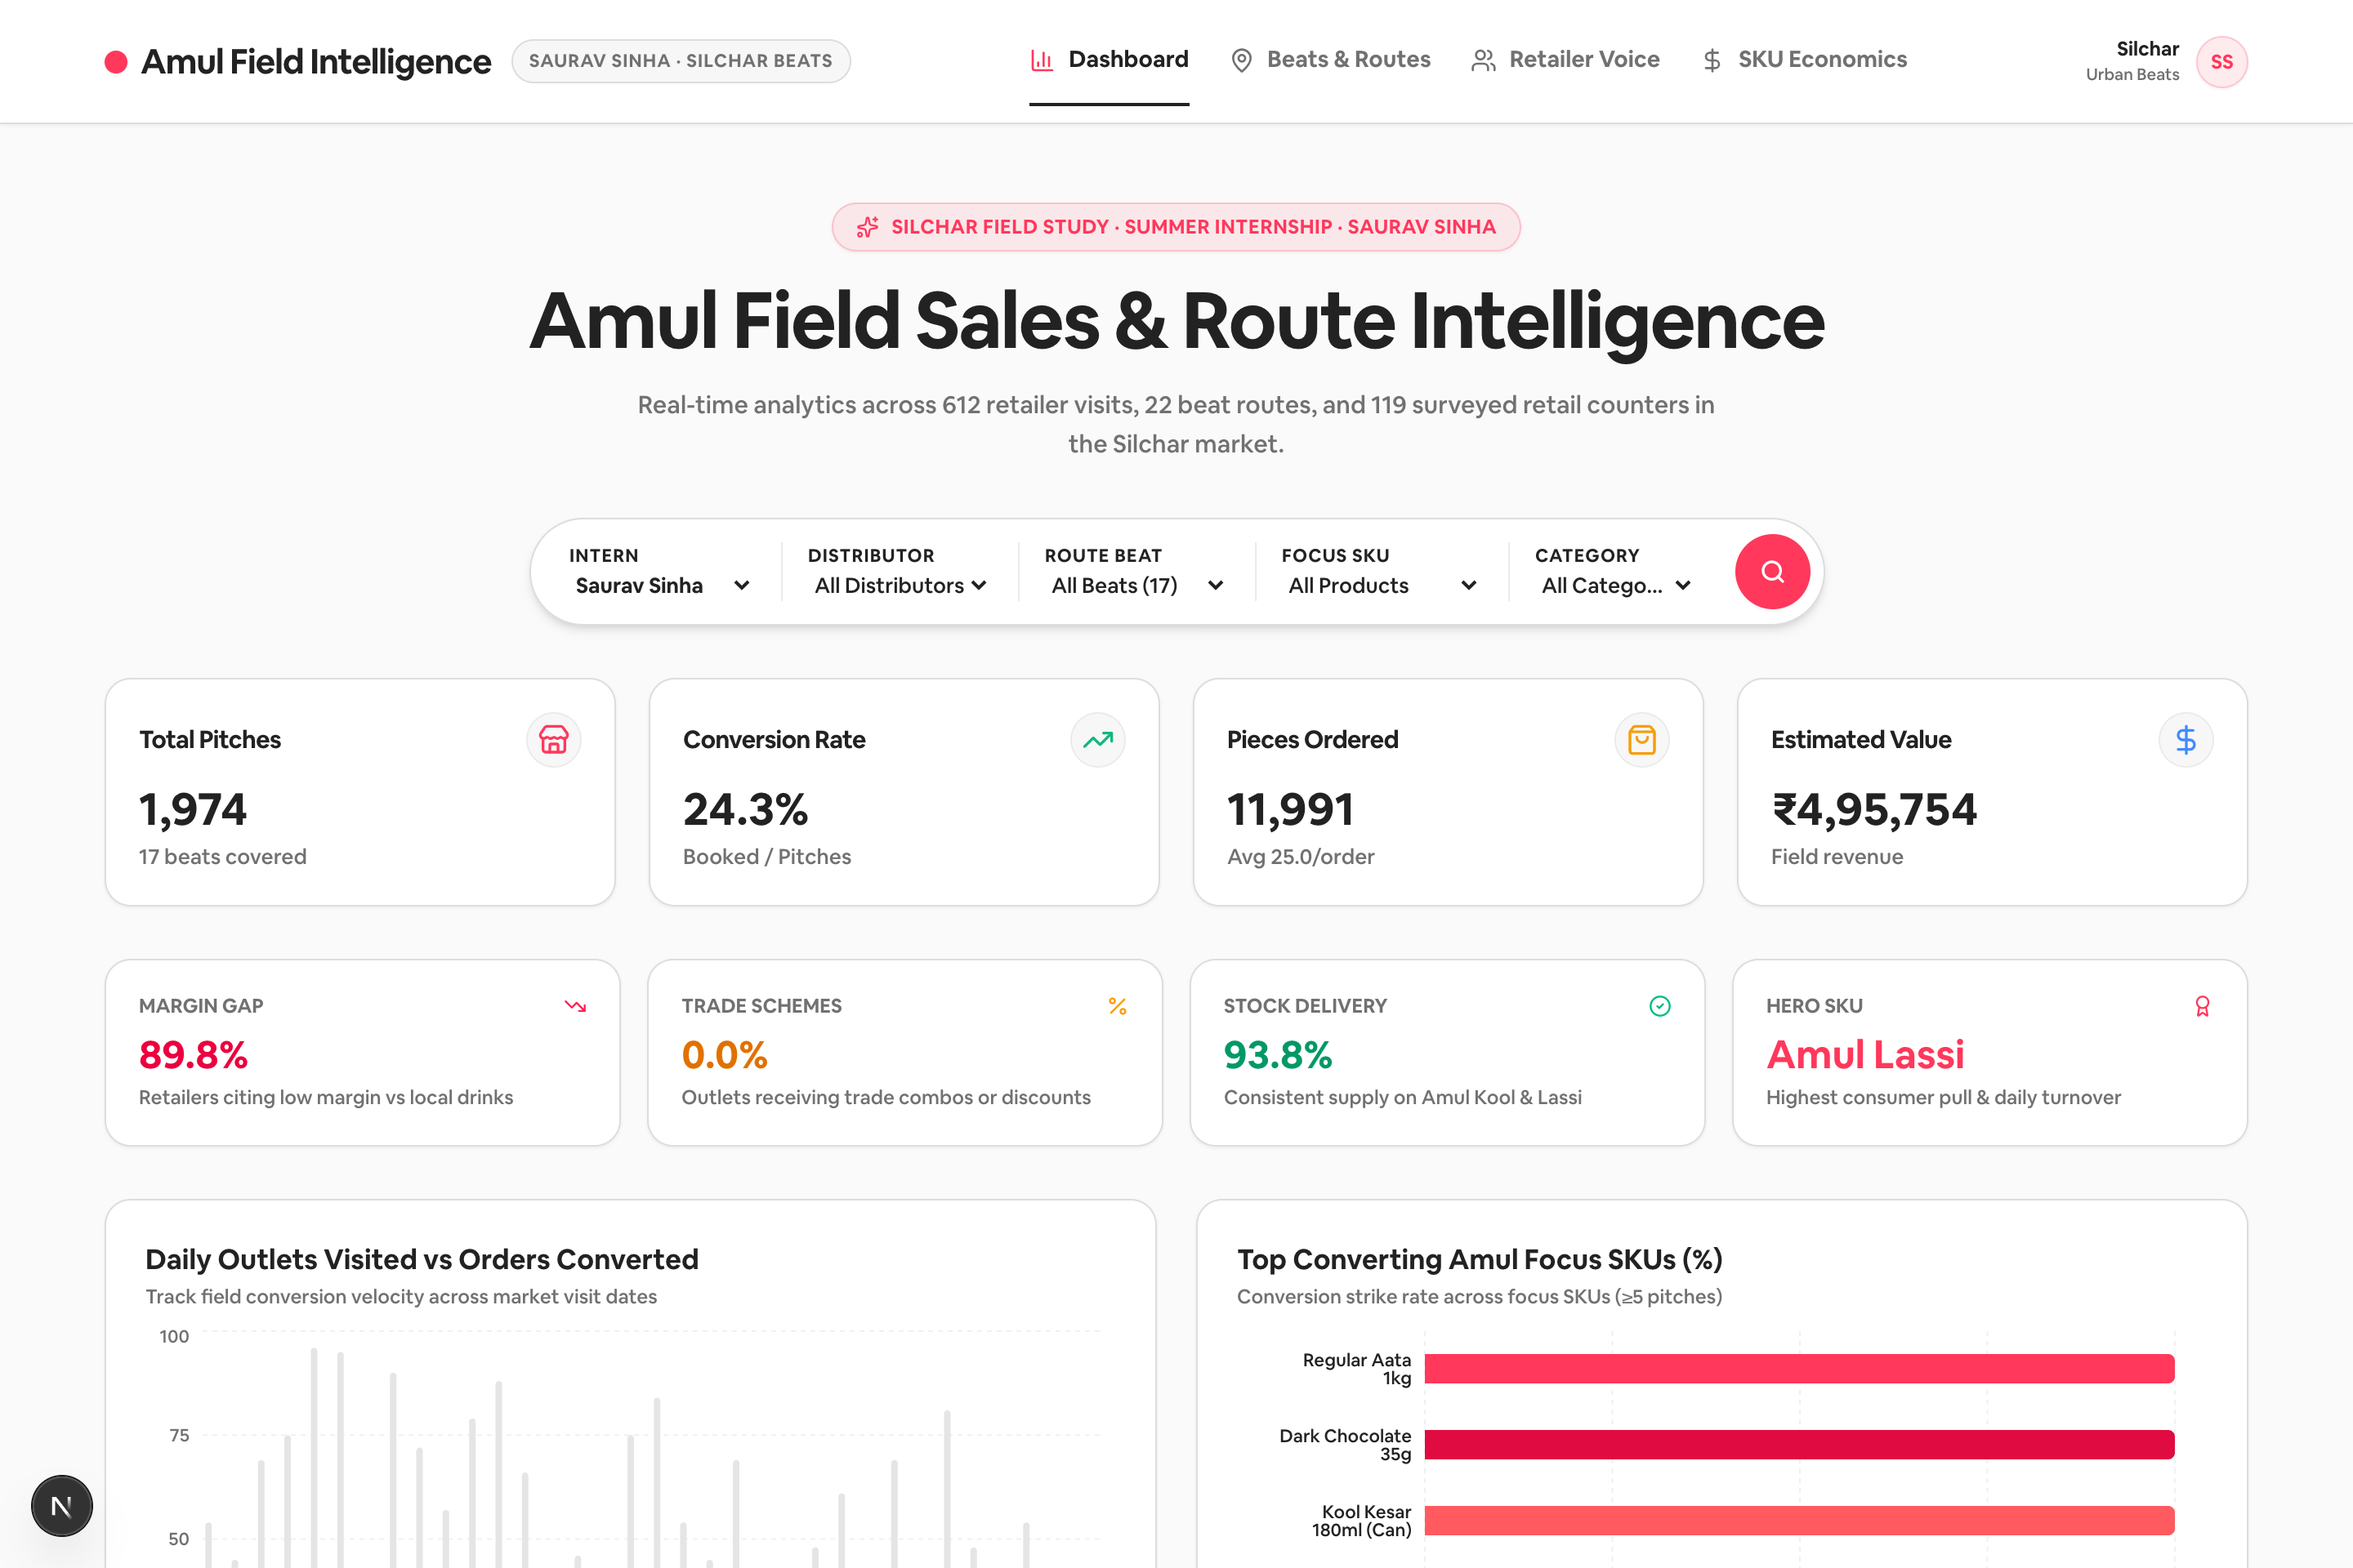
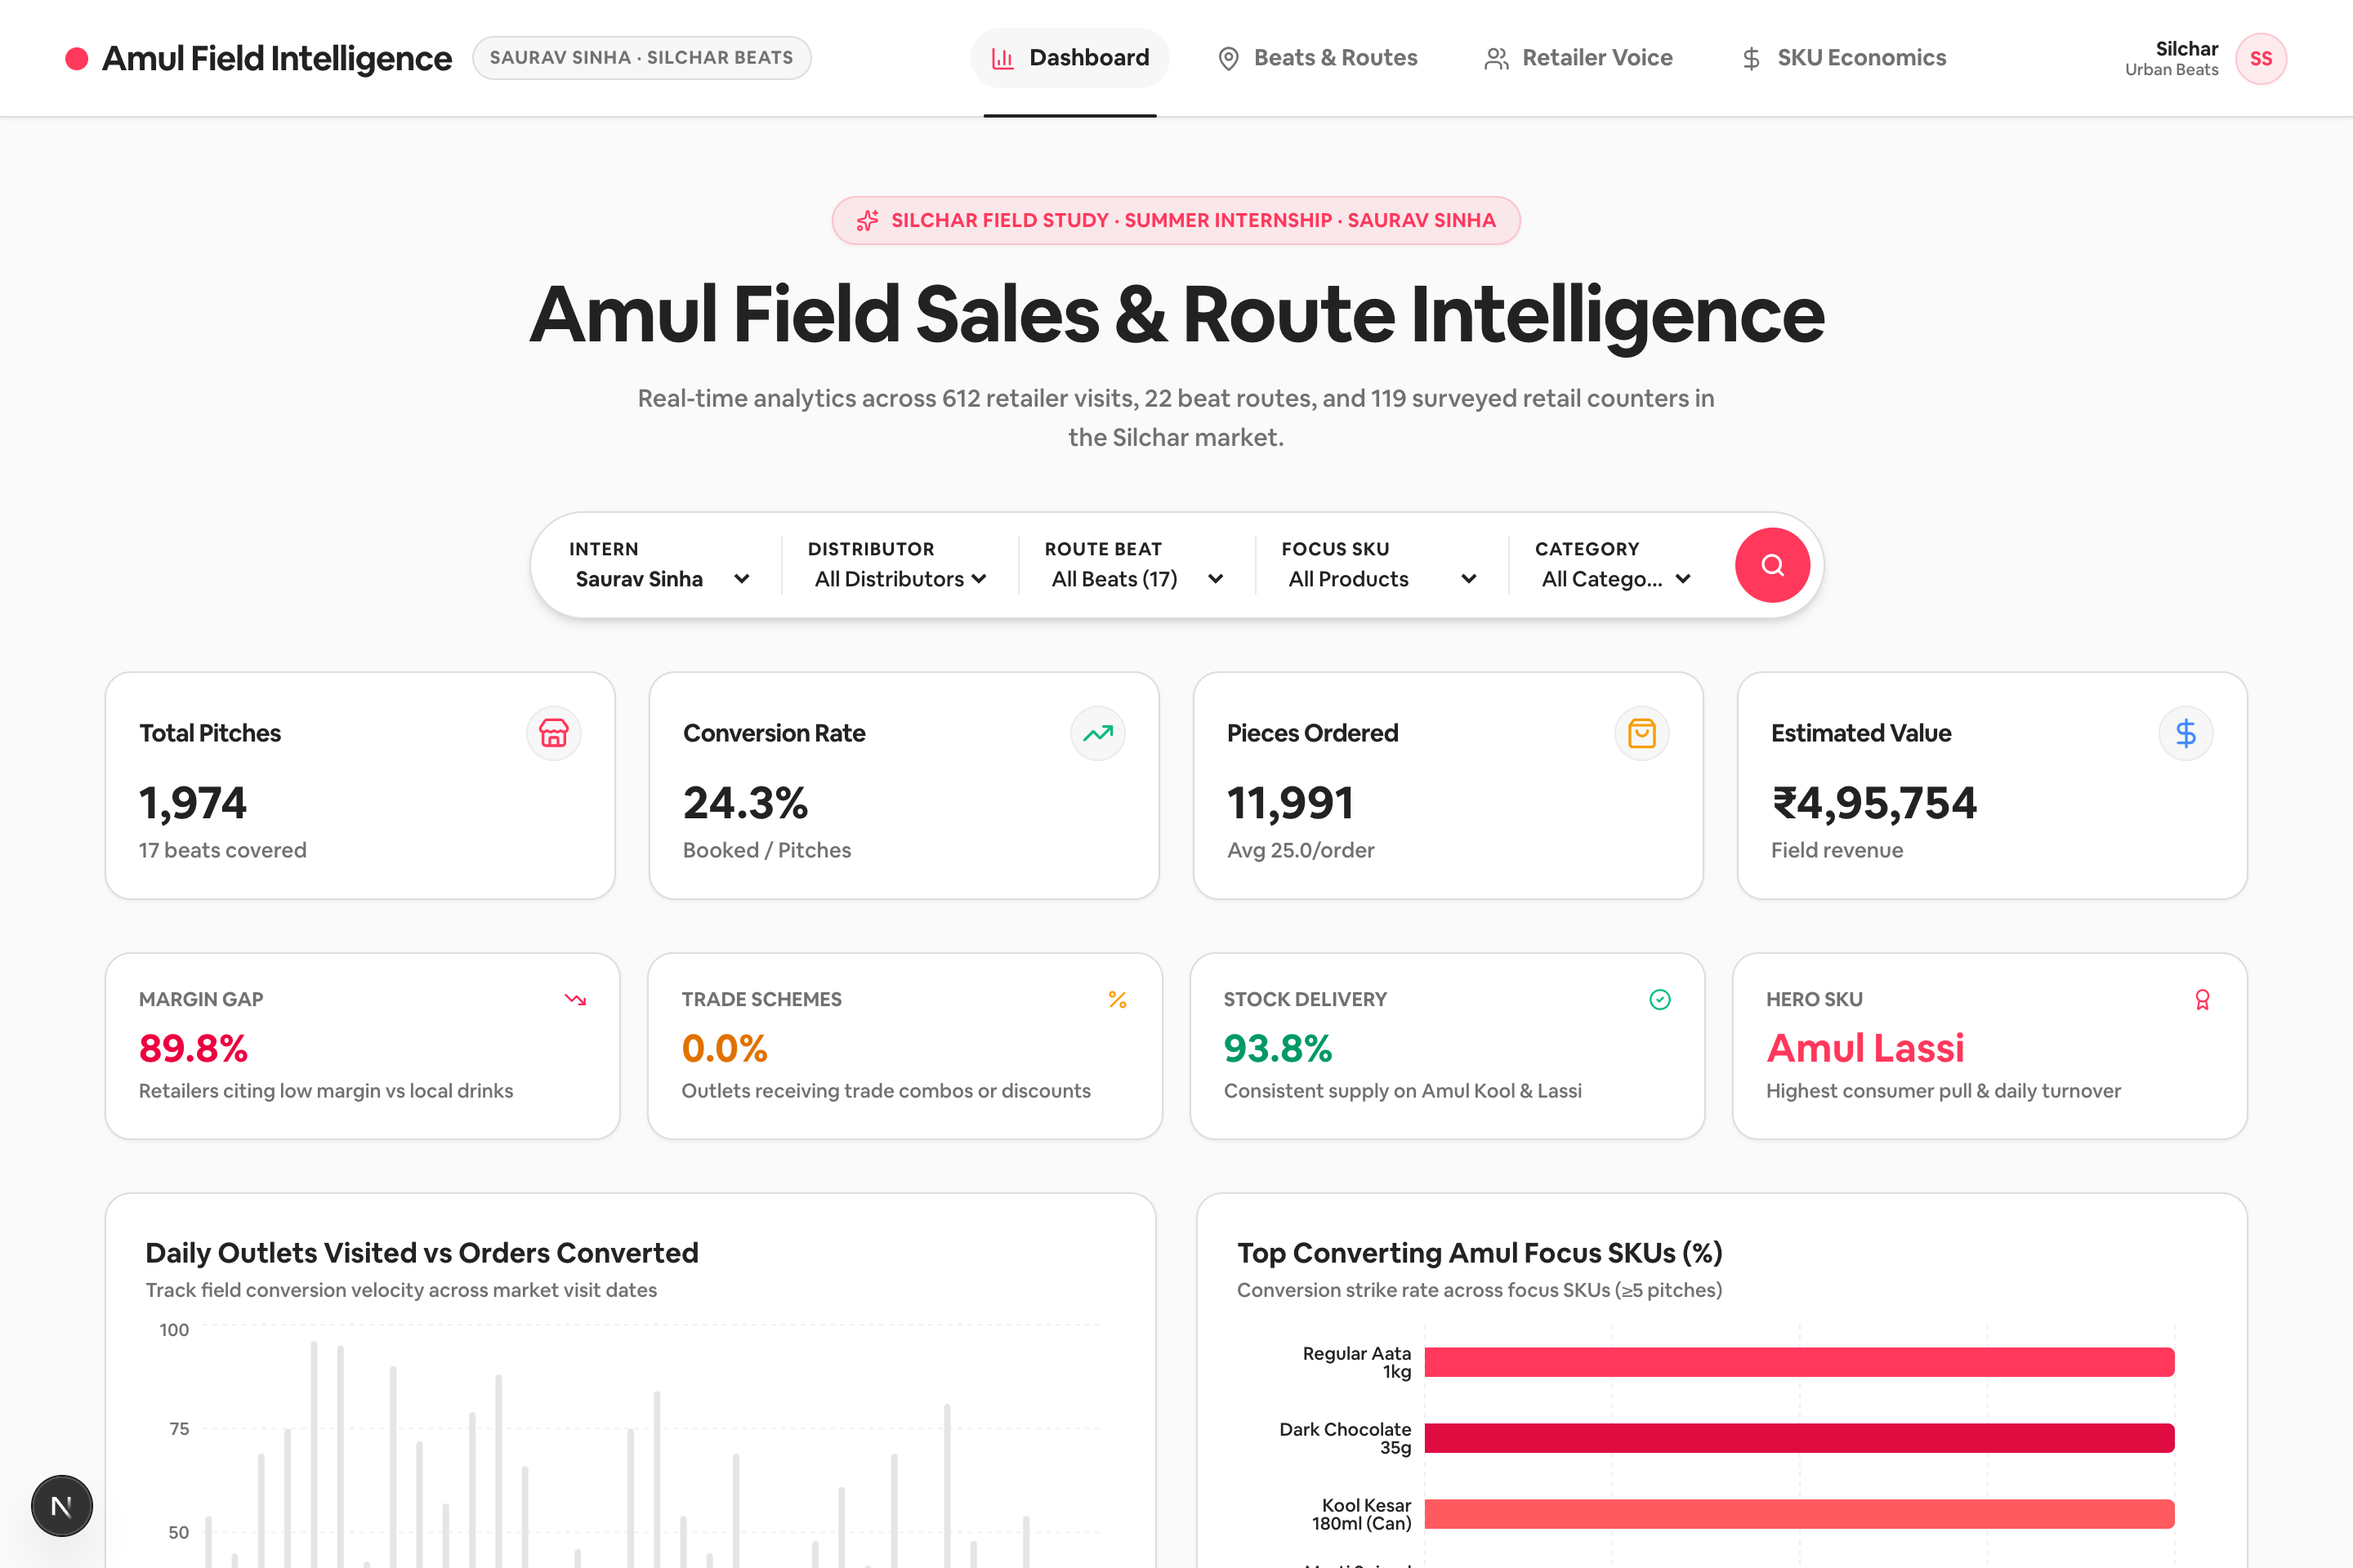
Fix header alignments: apply strict whitespace-nowrap, shrink-0, and responsive tab label switching

diff --git a/next-dashboard/src/components/TopNav.tsx b/next-dashboard/src/components/TopNav.tsx
@@ -11,28 +11,30 @@ export default function TopNav({ currentTab, onTabChange }: TopNavProps) {
   const navTabs = [
     { id: 'Dashboard', label: 'Dashboard', shortLabel: 'Overview', icon: BarChart3 },
     { id: 'Beats', label: 'Beats & Routes', shortLabel: 'Beats', icon: MapPin },
-    { id: 'Surveys', label: 'Retailer Voice', shortLabel: 'Surveys (119)', icon: Users },
-    { id: 'Economics', label: 'SKU Economics', shortLabel: 'SKU & PTR', icon: DollarSign },
+    { id: 'Surveys', label: 'Retailer Voice', shortLabel: 'Surveys', icon: Users },
+    { id: 'Economics', label: 'SKU Economics', shortLabel: 'Economics', icon: DollarSign },
   ];
 
   return (
     <>
-      {/* Desktop & Mobile Header */}
-      <header className="h-[64px] sm:h-[76px] bg-white/95 border-b border-[#dddddd] flex items-center justify-between px-4 sm:px-8 md:px-16 sticky top-0 z-50 shadow-xs backdrop-blur-md">
-        <div className="flex items-center space-x-2.5 sm:space-x-3">
-          <div className="flex items-center gap-2">
-            <span className="w-3 h-3 sm:w-3.5 sm:h-3.5 rounded-full bg-[#ff385c] inline-block shadow-xs" />
-            <span className="text-[#222222] text-[17px] sm:text-[21px] font-bold tracking-tight">
+      {/* Main Header */}
+      <header className="h-[64px] sm:h-[72px] bg-white/95 border-b border-[#dddddd] flex items-center justify-between px-4 sm:px-6 lg:px-10 sticky top-0 z-50 shadow-xs backdrop-blur-md select-none">
+        
+        {/* Brand Logo & Name */}
+        <div className="flex items-center space-x-2.5 sm:space-x-3 shrink-0">
+          <div className="flex items-center gap-2 shrink-0">
+            <span className="w-3 h-3 sm:w-3.5 sm:h-3.5 rounded-full bg-[#ff385c] shrink-0 inline-block shadow-xs" />
+            <span className="text-[#222222] text-[16px] sm:text-[19px] xl:text-[21px] font-bold tracking-tight whitespace-nowrap">
               Amul Field Intelligence
             </span>
           </div>
-          <div className="hidden lg:flex items-center text-[11px] font-bold uppercase tracking-wider text-[#717171] bg-[#f7f7f7] px-2.5 py-1 rounded-full border border-[#dddddd]">
+          <div className="hidden xl:inline-flex items-center text-[11px] font-bold uppercase tracking-wider text-[#717171] bg-[#f7f7f7] px-2.5 py-1 rounded-full border border-[#dddddd] whitespace-nowrap shrink-0">
             Saurav Sinha · Silchar Beats
           </div>
         </div>
         
-        {/* Desktop Navigation Tabs */}
-        <div className="hidden md:flex items-center space-x-6">
+        {/* Navigation Tabs (Desktop & Tablet) */}
+        <nav className="hidden md:flex items-center space-x-1 lg:space-x-2 xl:space-x-4 shrink-0">
           {navTabs.map((tab) => {
             const Icon = tab.icon;
             const isActive = currentTab === tab.id;
@@ -40,32 +42,36 @@ export default function TopNav({ currentTab, onTabChange }: TopNavProps) {
               <button
                 key={tab.id}
                 onClick={() => onTabChange(tab.id)}
-                className={`flex items-center gap-2 text-[14px] font-semibold pb-4 pt-4 transition-all border-b-2 ${
+                className={`flex items-center gap-1.5 lg:gap-2 text-[13px] lg:text-[14px] font-semibold py-2 px-2.5 lg:px-3 rounded-lg transition-all whitespace-nowrap shrink-0 relative ${
                   isActive 
-                    ? 'text-[#222222] border-[#222222]' 
-                    : 'text-[#717171] border-transparent hover:text-[#222222]'
+                    ? 'text-[#222222] font-bold bg-[#f7f7f7]' 
+                    : 'text-[#717171] hover:text-[#222222] hover:bg-[#fbfbfb]'
                 }`}
               >
-                <Icon className={`w-4 h-4 ${isActive ? 'text-[#ff385c]' : 'text-[#717171]'}`} />
-                {tab.label}
+                <Icon className={`w-4 h-4 shrink-0 ${isActive ? 'text-[#ff385c]' : 'text-[#717171]'}`} />
+                <span className="hidden lg:inline">{tab.label}</span>
+                <span className="inline lg:hidden">{tab.shortLabel}</span>
+                {isActive && (
+                  <span className="absolute bottom-[-14px] sm:bottom-[-18px] left-2 right-2 h-[2.5px] bg-[#222222] rounded-full" />
+                )}
               </button>
             );
           })}
-        </div>
+        </nav>
 
         {/* User / Market Badge */}
-        <div className="flex items-center space-x-2.5">
-          <div className="flex flex-col text-right">
-            <span className="text-xs font-bold text-[#222222]">Silchar</span>
-            <span className="text-[10px] text-[#717171]">Urban Beats</span>
+        <div className="flex items-center space-x-2 sm:space-x-2.5 shrink-0">
+          <div className="flex flex-col text-right shrink-0">
+            <span className="text-xs font-bold text-[#222222] whitespace-nowrap leading-none mb-0.5">Silchar</span>
+            <span className="text-[10px] text-[#717171] whitespace-nowrap leading-none">Urban Beats</span>
           </div>
-          <div className="w-8 h-8 rounded-full bg-[#ff385c]/10 border border-[#ff385c]/20 flex items-center justify-center text-[#ff385c] font-bold text-xs shadow-xs">
+          <div className="w-8 h-8 rounded-full bg-[#ff385c]/10 border border-[#ff385c]/20 flex items-center justify-center text-[#ff385c] font-bold text-xs shrink-0 shadow-xs">
             SS
           </div>
         </div>
       </header>
 
-      {/* Mobile Top Scrollable Sub-nav Strip */}
+      {/* Mobile Top Scrollable Sub-nav Strip (< md) */}
       <div className="flex md:hidden bg-white border-b border-[#dddddd] px-2 py-1.5 overflow-x-auto no-scrollbar sticky top-[64px] z-40 shadow-xs">
         <div className="flex items-center gap-1.5 min-w-max mx-auto">
           {navTabs.map((tab) => {
@@ -75,21 +81,21 @@ export default function TopNav({ currentTab, onTabChange }: TopNavProps) {
               <button
                 key={tab.id}
                 onClick={() => onTabChange(tab.id)}
-                className={`flex items-center gap-1.5 px-3 py-1.5 rounded-full text-xs font-bold transition-all ${
+                className={`flex items-center gap-1.5 px-3 py-1.5 rounded-full text-xs font-bold transition-all whitespace-nowrap shrink-0 ${
                   isActive
                     ? 'bg-[#222222] text-white shadow-xs'
                     : 'bg-[#f7f7f7] text-[#555555] border border-[#dddddd] hover:bg-[#ebebeb]'
                 }`}
               >
-                <Icon className={`w-3.5 h-3.5 ${isActive ? 'text-[#ff385c]' : 'text-[#717171]'}`} />
-                {tab.shortLabel}
+                <Icon className={`w-3.5 h-3.5 shrink-0 ${isActive ? 'text-[#ff385c]' : 'text-[#717171]'}`} />
+                <span>{tab.shortLabel}</span>
               </button>
             );
           })}
         </div>
       </div>
 
-      {/* Mobile Bottom Navigation Bar (Persistent 1-Thumb Switching) */}
+      {/* Mobile Bottom Navigation Bar (< md) */}
       <nav className="md:hidden fixed bottom-0 left-0 right-0 z-50 bg-white/95 border-t border-[#dddddd] backdrop-blur-md px-2 py-1.5 flex items-center justify-around shadow-lg">
         {navTabs.map((tab) => {
           const Icon = tab.icon;
@@ -98,13 +104,13 @@ export default function TopNav({ currentTab, onTabChange }: TopNavProps) {
             <button
               key={tab.id}
               onClick={() => onTabChange(tab.id)}
-              className={`flex flex-col items-center justify-center py-1 px-3 rounded-xl transition-all ${
+              className={`flex flex-col items-center justify-center py-1 px-3 rounded-xl transition-all shrink-0 ${
                 isActive ? 'text-[#ff385c]' : 'text-[#717171] hover:text-[#222222]'
               }`}
             >
-              <Icon className={`w-5 h-5 ${isActive ? 'stroke-[2.5]' : 'stroke-2'}`} />
-              <span className={`text-[10px] mt-0.5 ${isActive ? 'font-bold' : 'font-medium'}`}>
-                {tab.shortLabel.split(' ')[0]}
+              <Icon className={`w-5 h-5 shrink-0 ${isActive ? 'stroke-[2.5]' : 'stroke-2'}`} />
+              <span className={`text-[10px] mt-0.5 whitespace-nowrap ${isActive ? 'font-bold' : 'font-medium'}`}>
+                {tab.shortLabel}
               </span>
             </button>
           );
